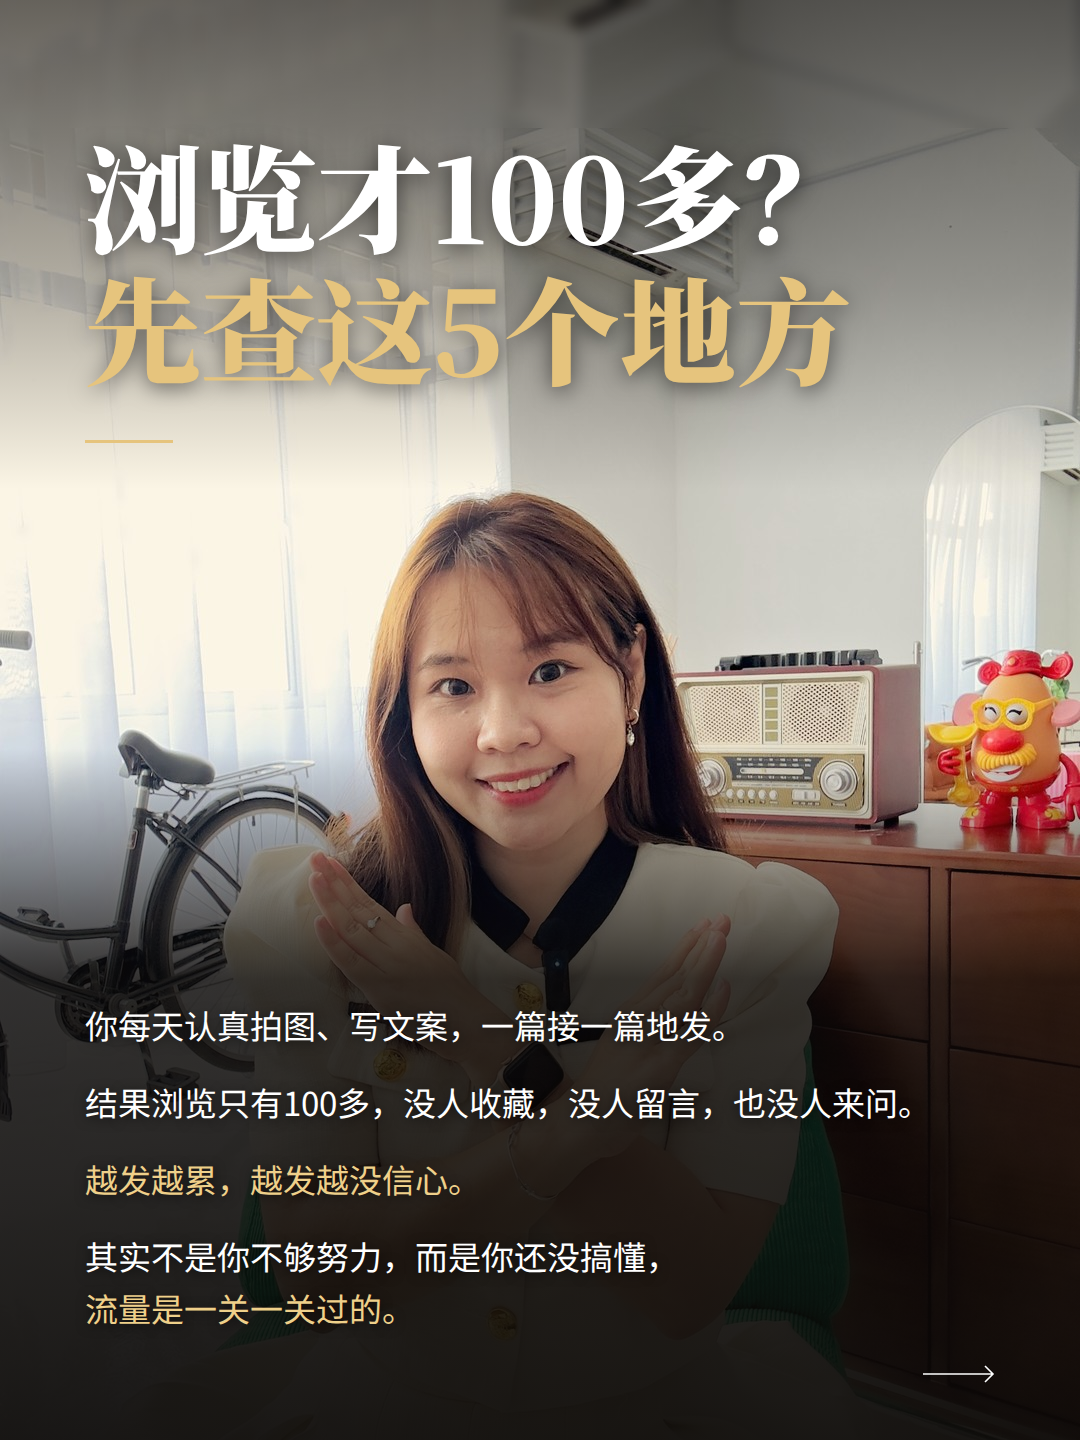
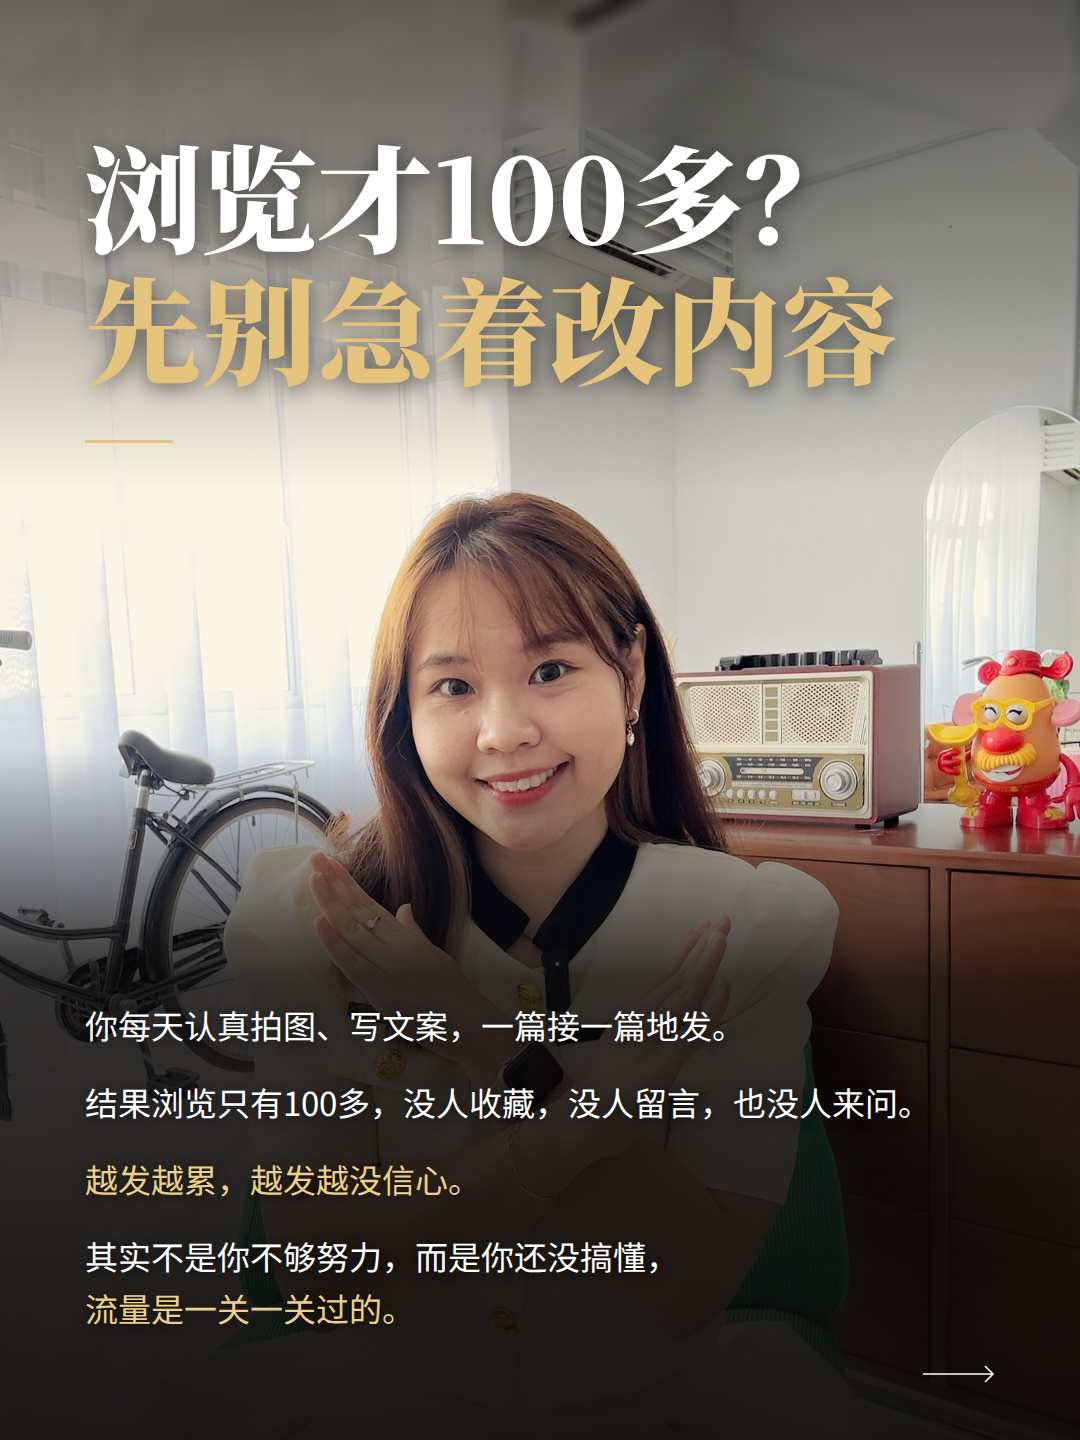
Carousel ep1 v5: sharper cover headline
Claude-Session: https://claude.ai/code/session_01HRZxfCPWQYK6hRiC87aRnZ

Changed region(s): [[0.1833, 0.1875, 0.825, 0.2812]]

diff --git a/carousel/content.py b/carousel/content.py
@@ -2,7 +2,7 @@
 # 每页：t1 白（key 用金）、t2 金；blocks: ("sec", 标签, [("p"|"b", 文字)]) / ("call", 文字) / ("para", 文字)
 import re
 SLIDES = [
- dict(n=1, kind="cover", photo="IMG_6769.DNG", head=(.33,.60,.26,.52), zoom=1.0, t1="浏览才100多？", t2="先查这5个地方", blocks=[
+ dict(n=1, kind="cover", photo="IMG_6769.DNG", head=(.33,.60,.26,.52), zoom=1.0, t1="浏览才100多？", t2="先别急着改内容", blocks=[
   ("para","你每天认真拍图、写文案，一篇接一篇地发。"),
   ("para","结果浏览只有100多，没人收藏，没人留言，也没人来问。"),
   ("para","【黄】越发越累，越发越没信心。【/黄】"),
